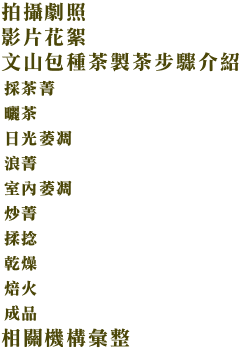
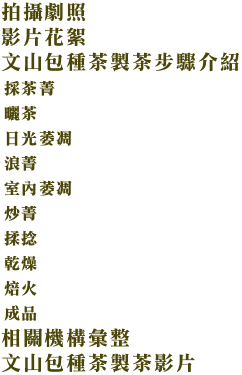
「茶知識」新增製茶影片連結 #20141226

Changed region(s): [[0.0, 0.0, 1.0, 1.0]]

diff --git a/css/xuedesign_201412.css b/css/xuedesign_201412.css
@@ -366,12 +366,20 @@ footer .txt_ad{
 	background-position: 0 -300px}		
 .st-14{
 	width:135px;
-	background-position: 0 -325px}		
+	background-position: 0 -325px}
+.st-15{
+	width:242px;
+	background-position: 0 -350px}			
 .box_film{
 	display:block;
 	width:710px;
 	height:399px;
 	padding:15px 0 15px 24px}
+.box_film-02{
+	display:block;
+	width:657px;
+	height:369px;
+	padding:15px 0 30px 40px}	
 
 /* 5. 茶知識 
 ===============================================================================================*/

diff --git a/process.html b/process.html
@@ -56,6 +56,8 @@
               <section id="box_pageinfo">
                 
                 <div id="box_process">
+                  <h4 class="subtitle st-15">文山包種茶製茶步驟介紹</h4>
+                    <div class="box_film-02"><iframe width="657" height="369" src="//www.youtube.com/embed/qepJhGAYIEc?rel=0" frameborder="0" allowfullscreen></iframe></div>  
                   <h4 class="subtitle st-03">文山包種茶製茶步驟介紹</h4>
                   <ul>
                       <li>
